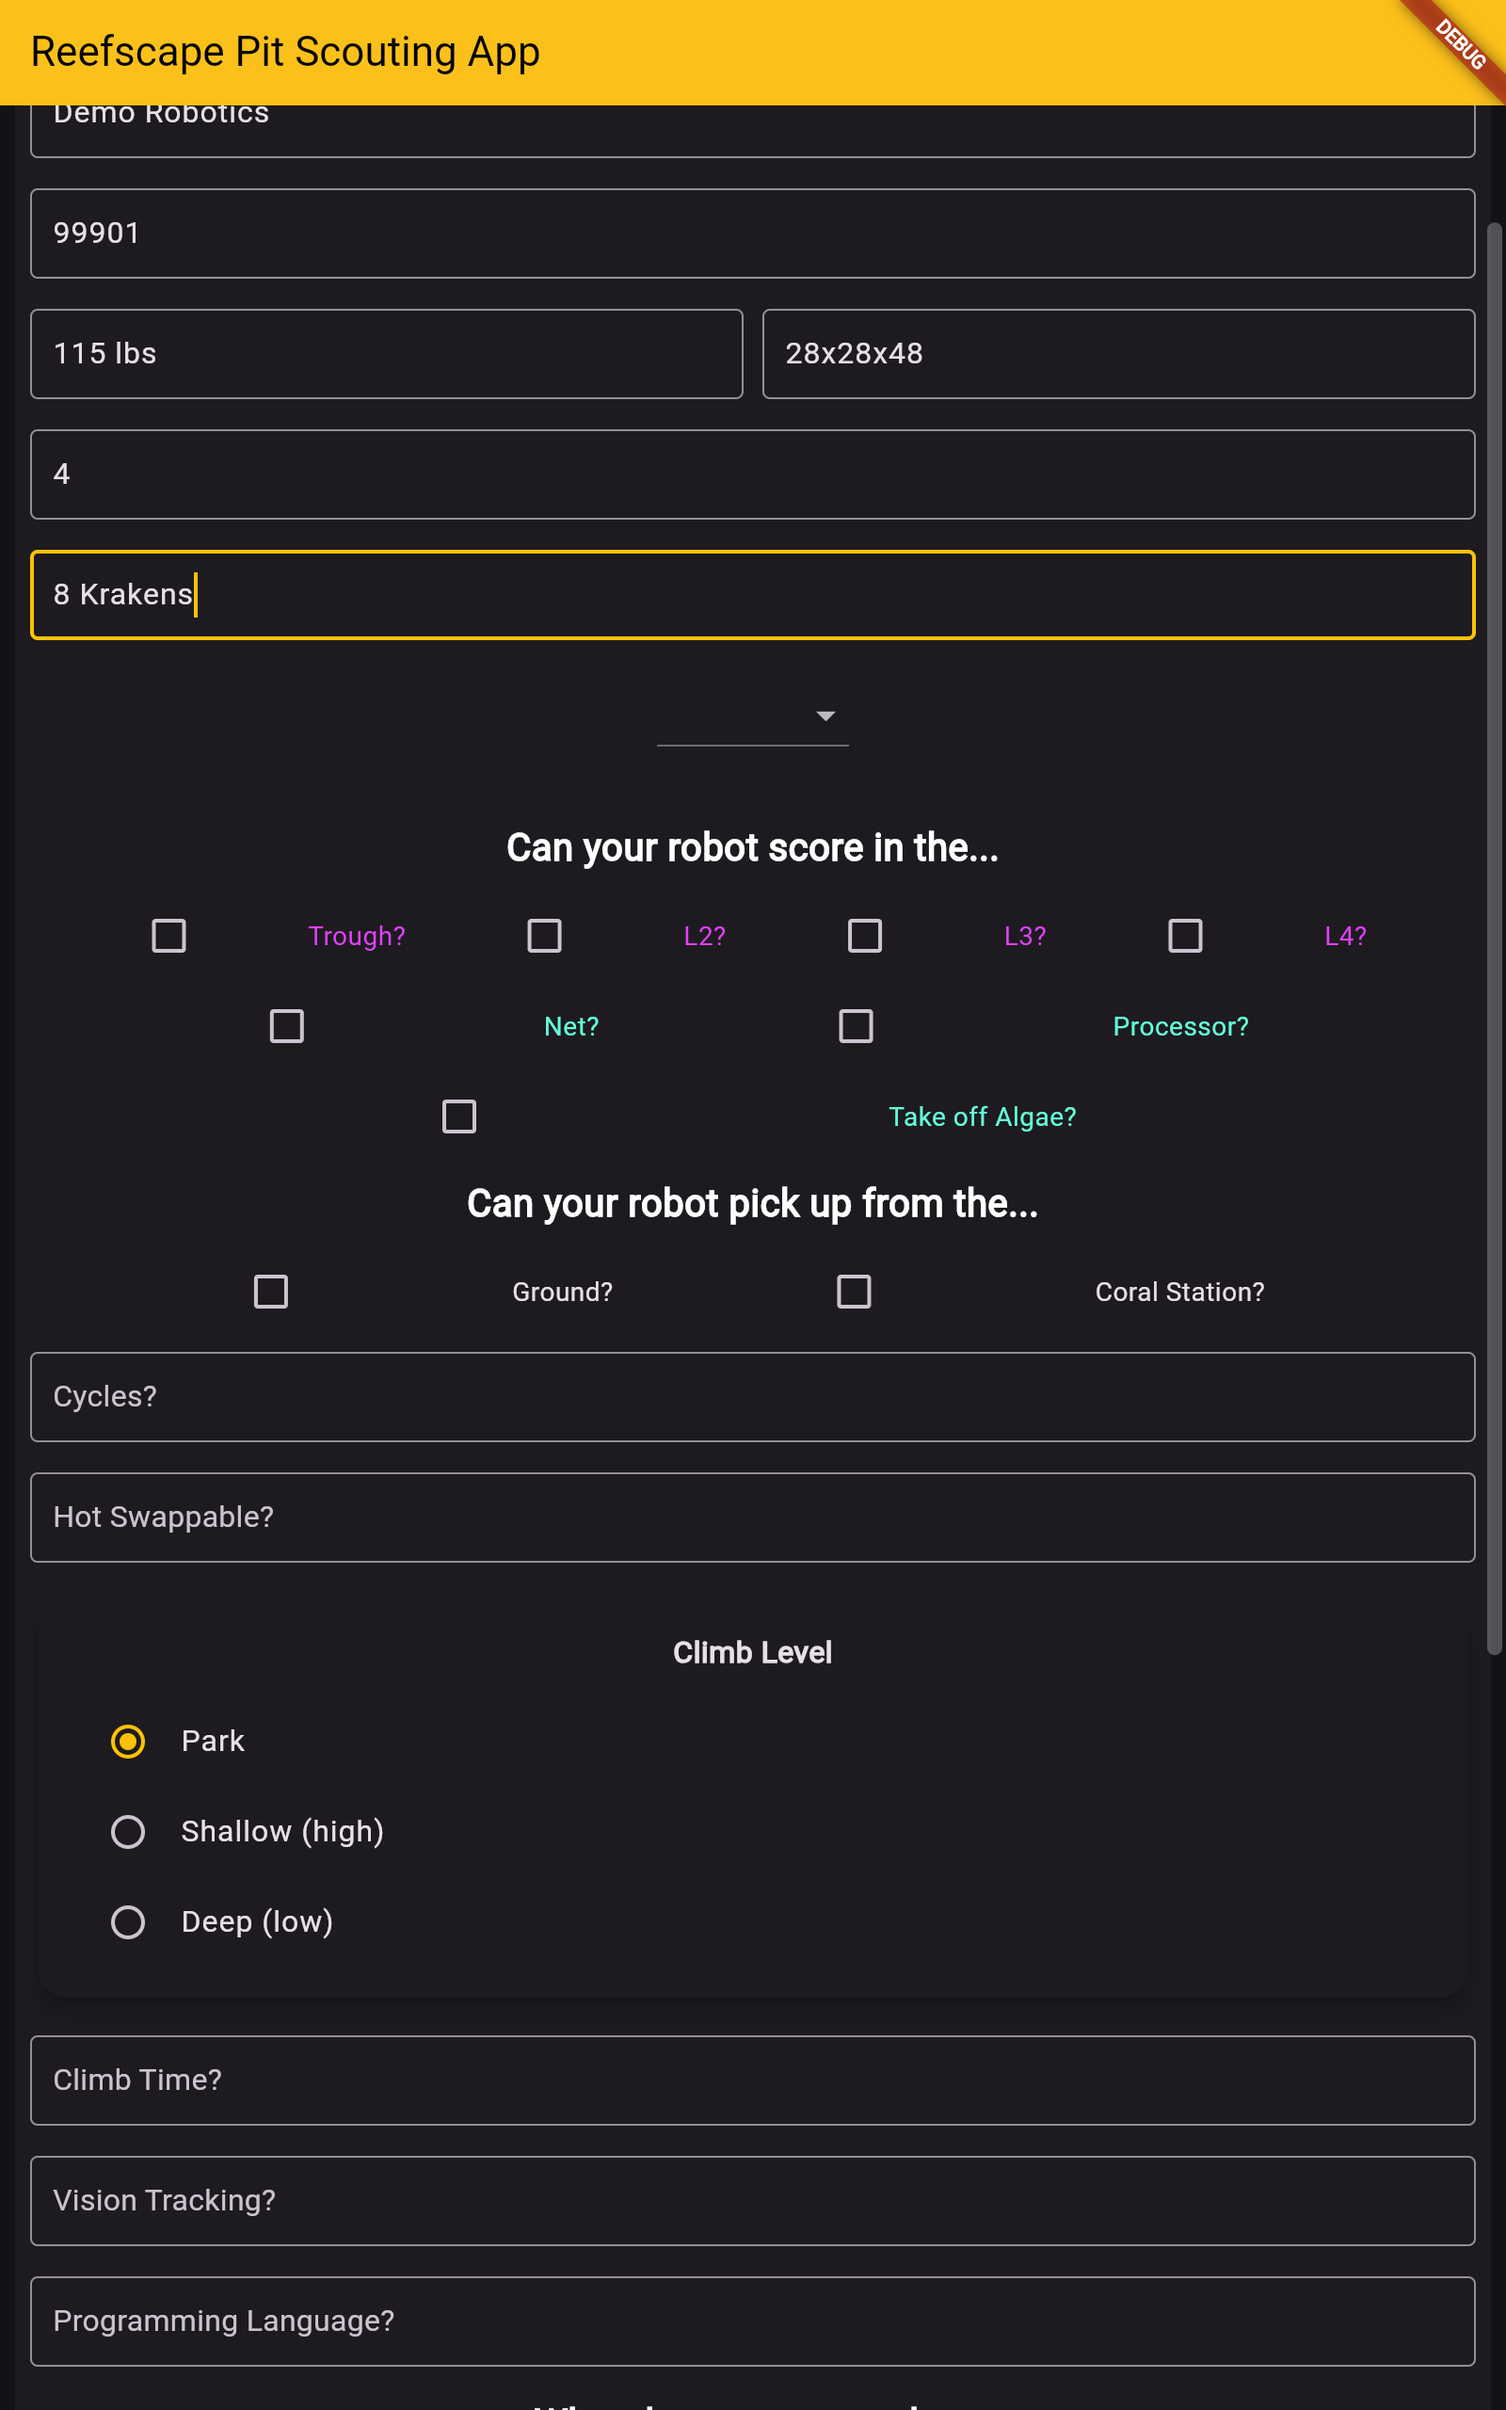
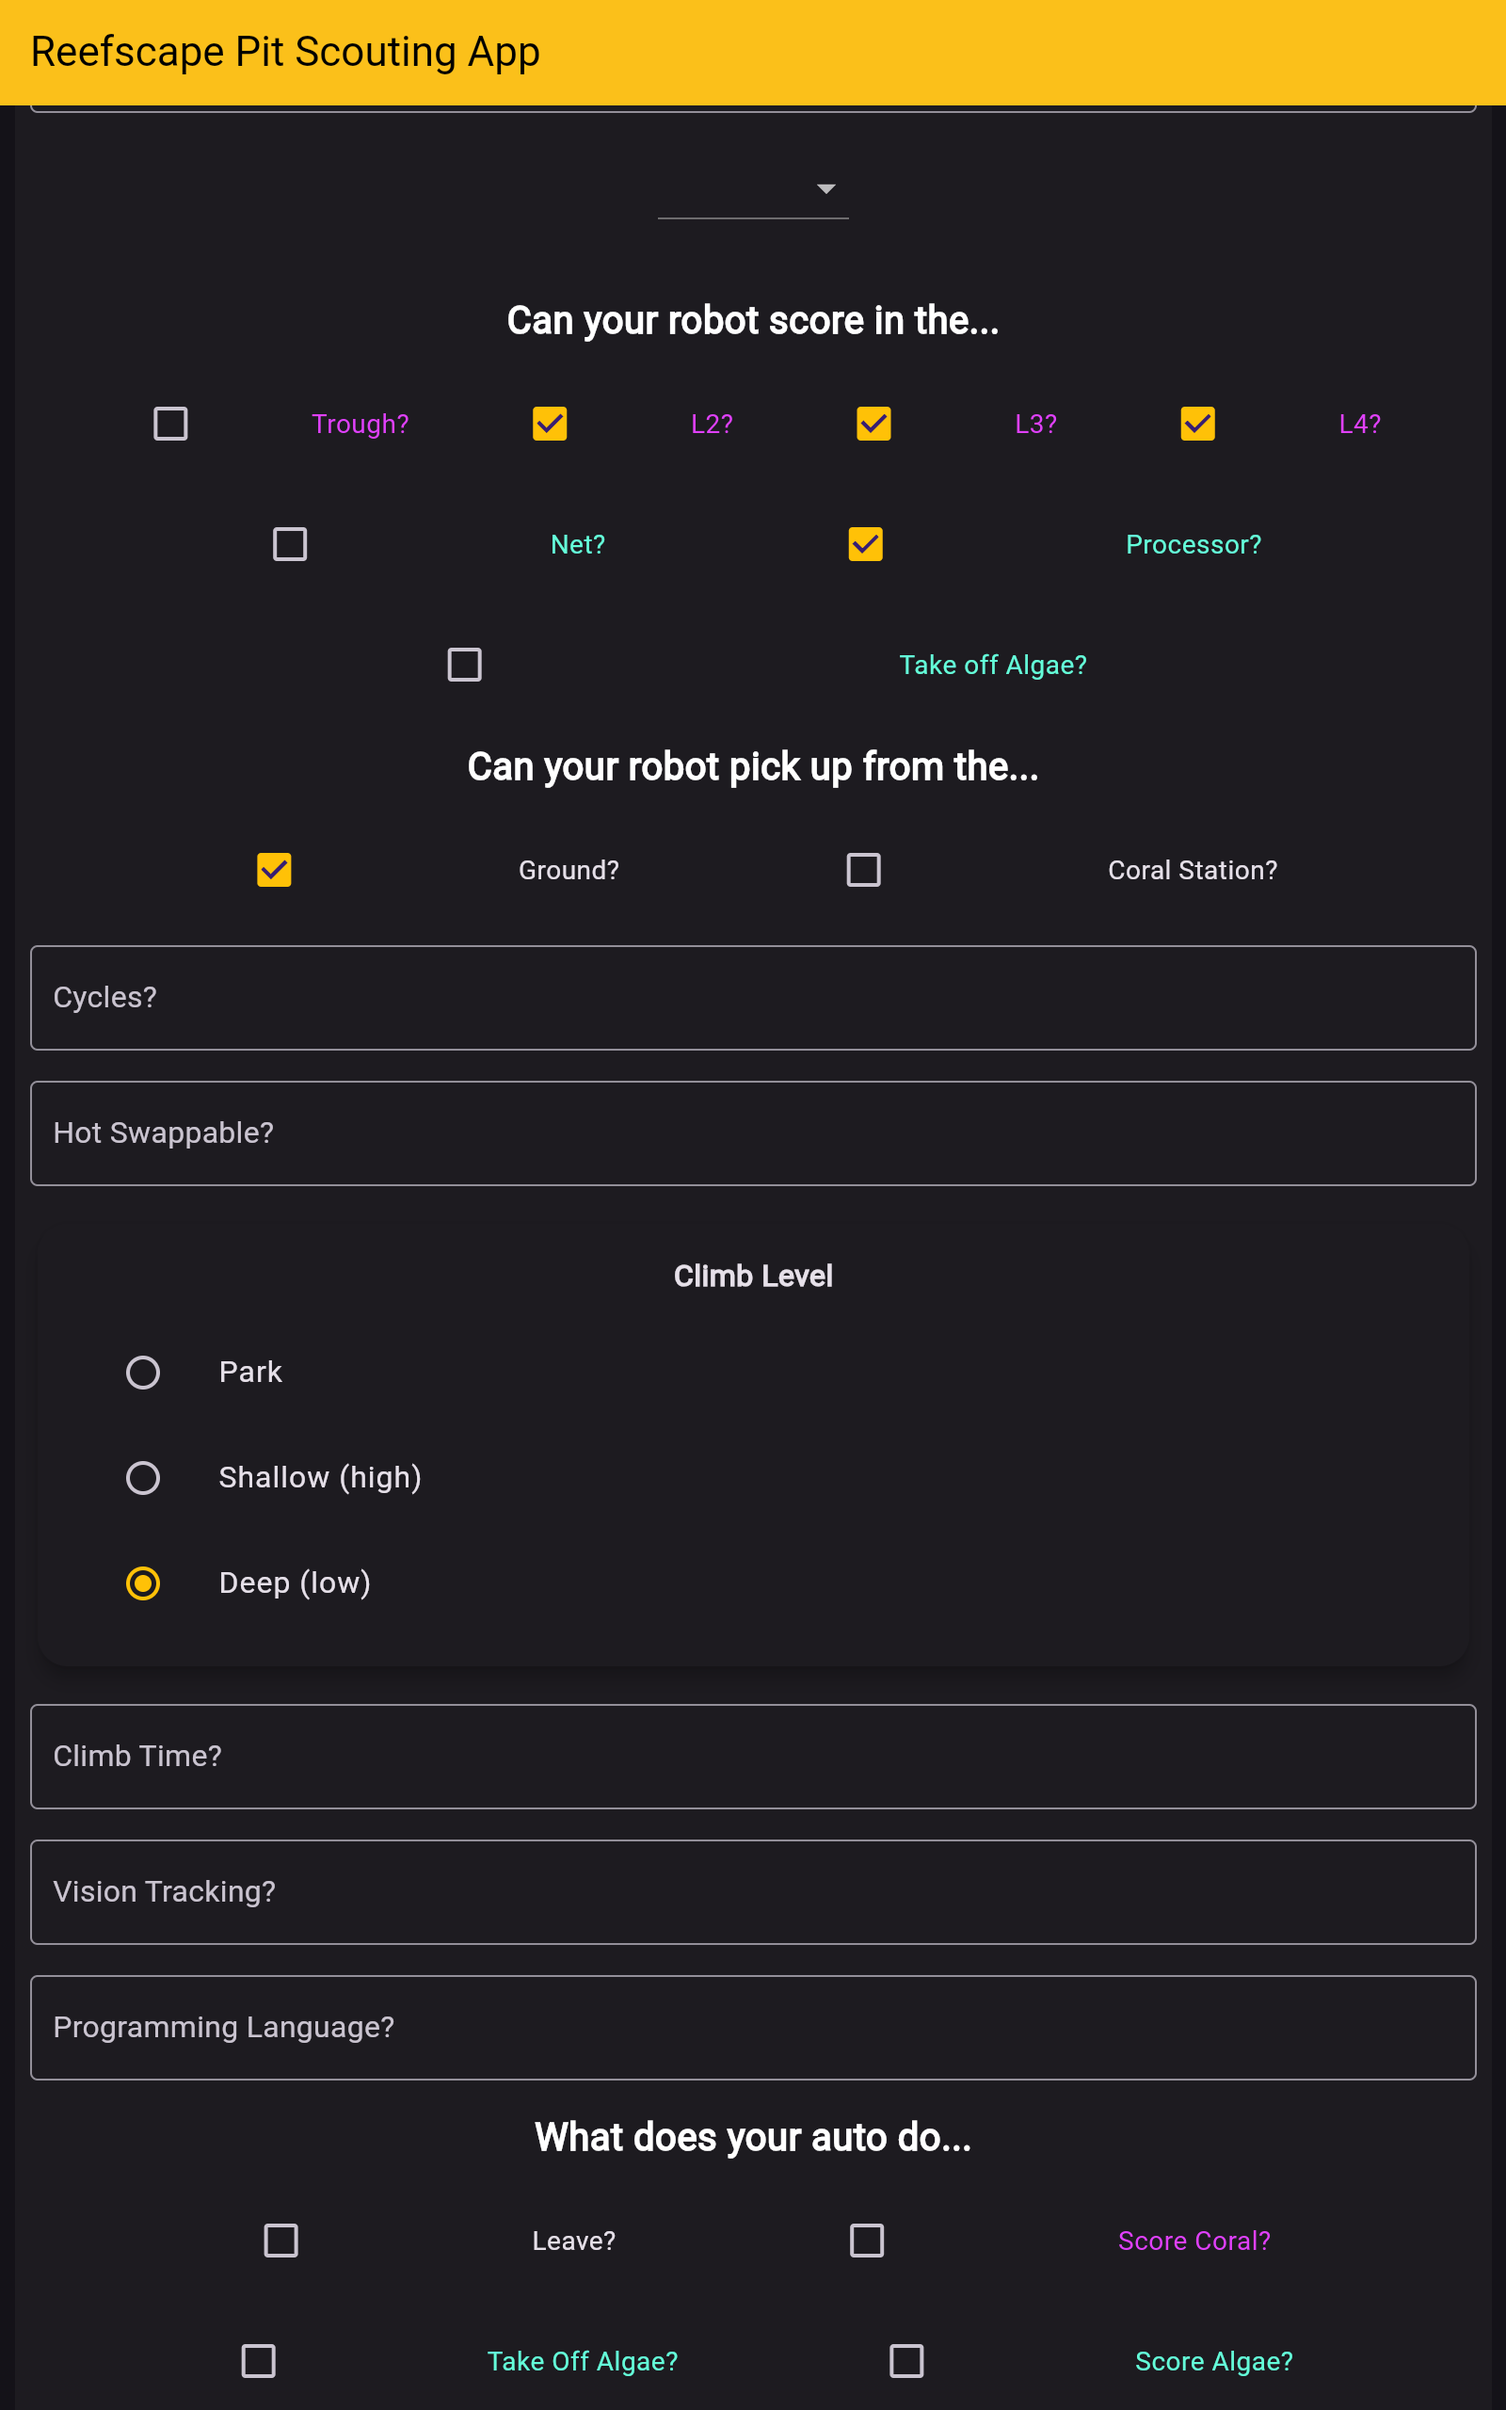
Fix screenshots and README per review
Screenshots:
- Recaptured from release build (no DEBUG banner)
- Three distinct scroll positions:
  1. Top: filled form (Demo Scout, Demo Robotics, 99901, etc.)
  2. Middle: L2/L3/L4/Processor checked, Ground checked, Deep climb selected
  3. Bottom: QR code generated with Next Team button
- All 1600x2560 (800x1280 portrait at DPR 2)

README fixes:
- Freshman Team 1730 link now /team/1730/2022
- Added 'won Newton Division' with TBA link (2022new)
- Added 'reached Einstein' with TBA link (2022cmptx)
- Senior year links to /team/1730/2025
- Cross-Platform bullet: 'used on Android tablets at events'
- Changed comparison table: 'Fixed layouts' row instead of 'Platform lock-in'
- Background: 'responsive layouts instead of Java XML tuned to one tablet size'

Link check: 37 OK, 0 errors
Image check: 3 files, all 1600x2560, no DEBUG text

diff --git a/README.md b/README.md
@@ -17,9 +17,9 @@
 
 ## Background
 
-As a freshman on [FRC Team 1730 (Team Driven)](https://www.thebluealliance.com/team/1730/2025), I served as scout lead during the 2022 Rapid React season. Seniors Heath Crump and Caden Findlay led the scouting app that year — we made it to the Newton Division at the Houston Championship and reached Einstein. I learned everything about scouting strategy working under them.
+As a freshman on [FRC Team 1730 (Team Driven)](https://www.thebluealliance.com/team/1730/2022), I served as scout lead during the 2022 Rapid React season. Seniors Heath Crump and Caden Findlay led the scouting app that year — we won the [Newton Division](https://www.thebluealliance.com/event/2022new) at the Houston Championship and reached [Einstein](https://www.thebluealliance.com/event/2022cmptx). I learned everything about scouting strategy working under them.
 
-Sophomore year (2023), I became the solo developer, building the match scouting app in Java/Android with QR codes scanned into Excel. Junior year (2024), I kept it going and added a separate pit scouting app. Senior year (2025, this repo), I rewrote both apps in Dart/Flutter for cross-platform support. The QR workflow remained, but the data now flows into a Python/customtkinter intake app that writes to SQLite — so strategy questions become SQL queries instead of spreadsheet filters.
+Sophomore year (2023), I became the solo developer, building the match scouting app in Java/Android with QR codes scanned into Excel. Junior year (2024), I kept it going and added a separate pit scouting app. [Senior year (2025, this repo)](https://www.thebluealliance.com/team/1730/2025), I rewrote both apps in Dart/Flutter — one modern codebase with responsive layouts instead of Java XML tuned to one tablet size. The QR workflow remained, but the data now flows into a Python/customtkinter intake app that writes to SQLite — so strategy questions become SQL queries instead of spreadsheet filters.
 
 — [Aamir Abatiyow](https://github.com/AamirAbatiyow)
 
@@ -44,7 +44,7 @@ Sophomore year (2023), I became the solo developer, building the match scouting 
 - **Detailed Drivetrain Analysis** — Cascading dropdowns for swerve modules (SDS L1–L4, WCP X/X2, REV, ThriftyBot variants)
 - **QR Code Export** — One-tap generation of scannable QR codes containing all scouted data
 - **Dark Theme UI** — Easy on the eyes in competition lighting with amber accents matching Team 1730's identity
-- **Cross-Platform** — Single Flutter codebase compiles for Android, iOS, web, and desktop
+- **Cross-Platform Codebase** — One Flutter codebase that can target Android, iOS, web, and desktop; used on Android tablets at events
 
 ## Usage Stats
 
@@ -138,7 +138,7 @@ The 2025 rewrite solved problems from the Java/Android era:
 
 | Challenge | 2024 Approach | 2025 Solution |
 |-----------|---------------|---------------|
-| Platform lock-in | Android-only Java app | Flutter compiles for Android, iOS, web, desktop |
+| Fixed layouts | Java XML layouts hand-tuned to one tablet size | Responsive Flutter layouts |
 | Manual data entry | Scan QR → paste into Excel tabs | Python intake app validates and writes to SQLite |
 | Ad-hoc queries | Filter/pivot in spreadsheet | SQL queries against normalized tables |
 
